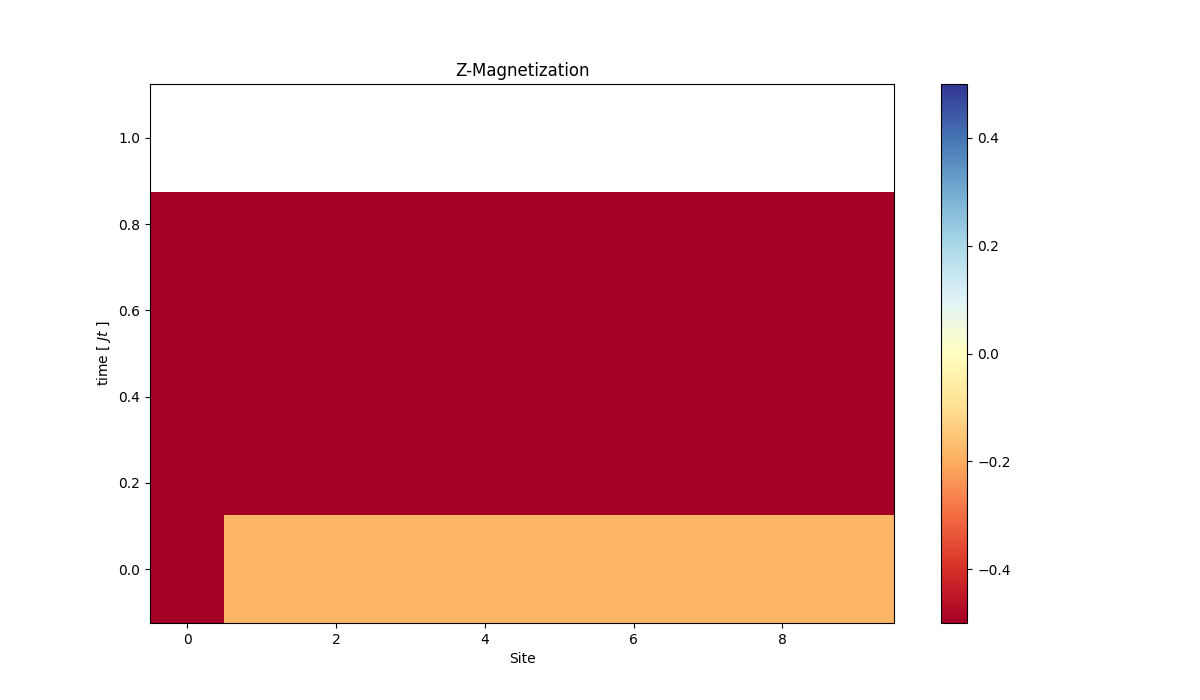
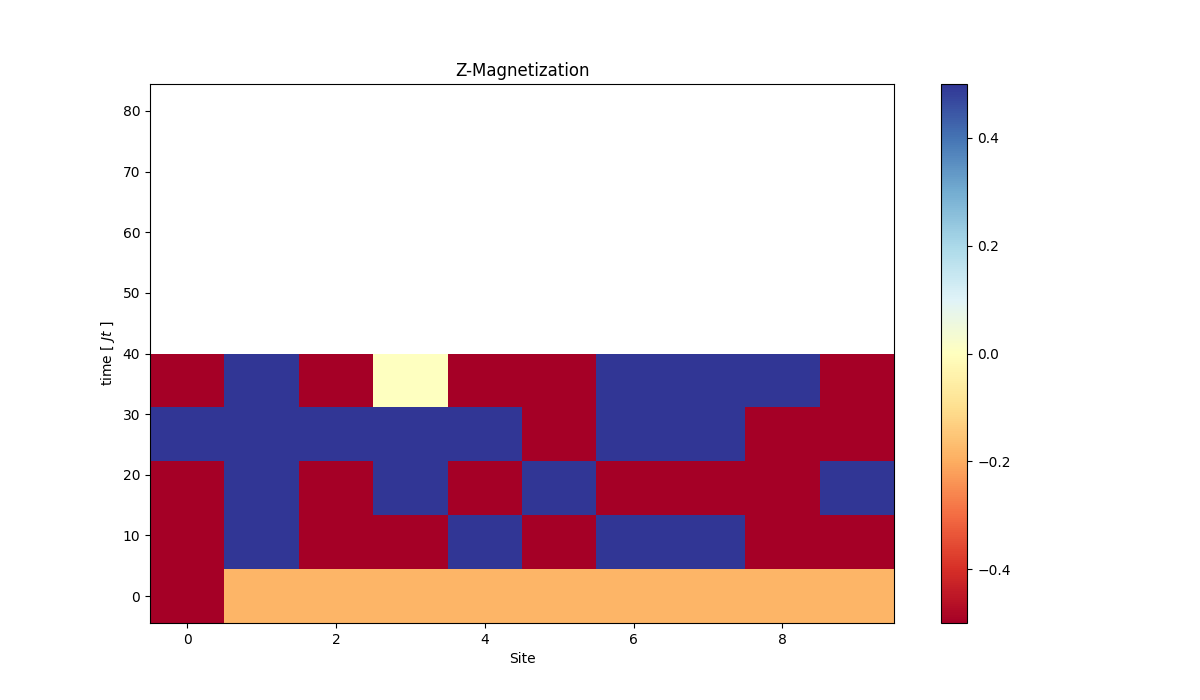
Add image for magnetisation

diff --git a/scratchpad/qtensor_MPS/constants.py b/scratchpad/qtensor_MPS/constants.py
@@ -28,10 +28,11 @@ _swap_matrix = np.array(
 )
 swap_matrix = np.reshape(_swap_matrix, newshape=(2, 2, 2, 2))
 
-_hbar = 1.0545718*10e-34
+# _hbar = 1.0545718*10e-34
+_hbar = 1
 _sigma_z =  _hbar * 0.5 * zmatrix
-_sigma_x_pos =  _hbar * 0.5* (xmatrix + 1j*ymatrix)
-_sigma_x_neg =  _hbar * 0.5* (xmatrix - 1j*ymatrix)
+_sigma_x_pos =  _hbar * 0.5 * (xmatrix + 1j*ymatrix)
+_sigma_x_neg =  _hbar * 0.5 * (xmatrix - 1j*ymatrix)
 
 _sigma_z_sigma_z_gate_matrix = np.tensordot(_sigma_z, _sigma_z, 0)
 sigma_z_sigma_z_gate_matrix = np.reshape(_sigma_z_sigma_z_gate_matrix, newshape=(2,2,2,2))

diff --git a/scratchpad/qtensor_MPS/evolution.py b/scratchpad/qtensor_MPS/evolution.py
@@ -9,7 +9,7 @@ import matplotlib.pyplot as plt
 cutoff = 1e-8
 N = 10
 mps = MPS("q", N+1, 2)
-evolution_range = np.linspace(0, 1, 5)
+evolution_range = np.linspace(0, 80, 10)
 js = np.arange(0, N)
 
 magnetization = []
